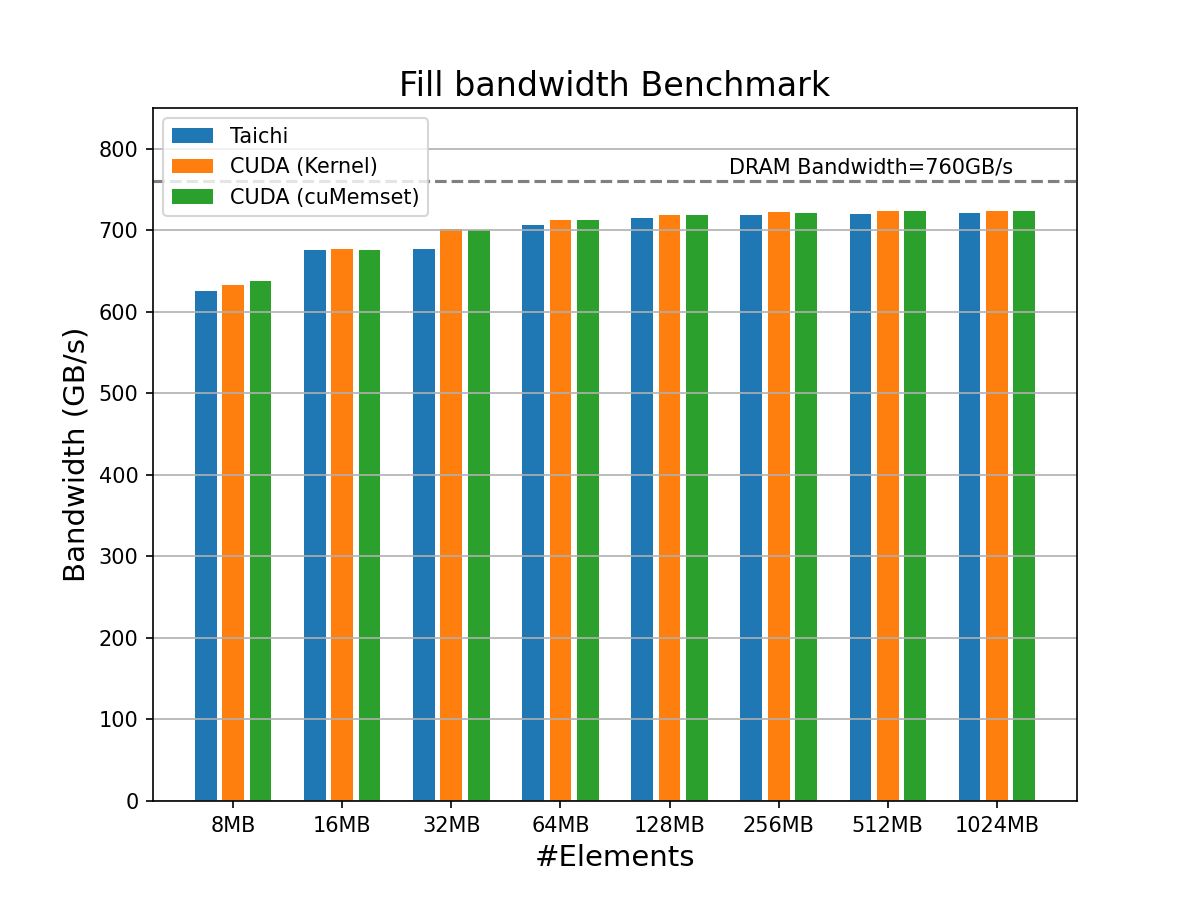
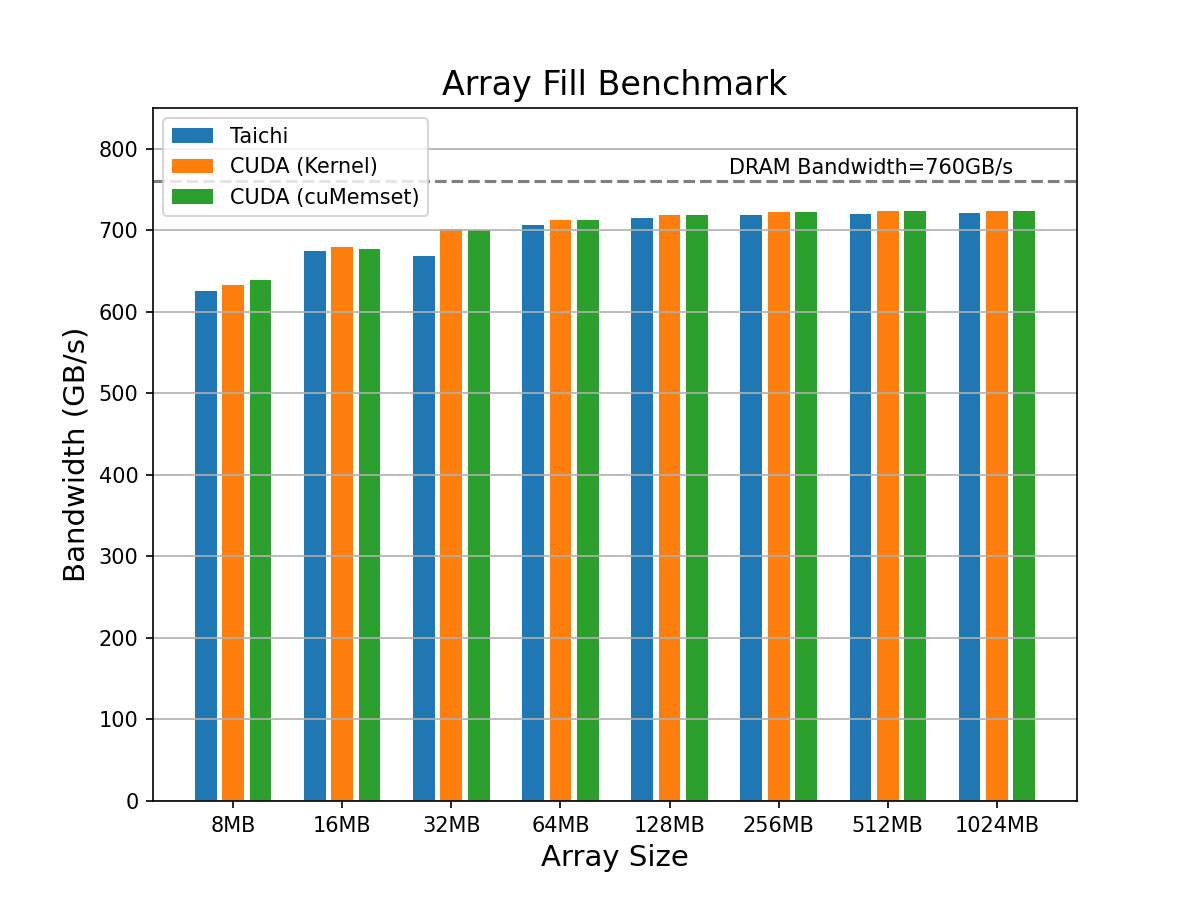
Update plot script for fill

Changed region(s): [[0.3392, 0.0622, 0.6783, 0.1244], [0.4317, 0.9333, 0.5858, 0.9644]]

diff --git a/fill/plot_benchmark.py b/fill/plot_benchmark.py
@@ -4,7 +4,7 @@ from src.cuda.benchmark import benchmark as benchmark_cuda
 import sys
 import os
 
-sample_res = {'cuda_kernel': [{'N': 2097152, 'time': 0.013, 'bandwidth': 632.938}, {'N': 4194304, 'time': 0.025, 'bandwidth': 678.134}, {'N': 8388608, 'time': 0.048, 'bandwidth': 701.28}, {'N': 16777216, 'time': 0.094, 'bandwidth': 712.921}, {'N': 33554432, 'time': 0.187, 'bandwidth': 718.698}, {'N': 67108864, 'time': 0.372, 'bandwidth': 721.962}, {'N': 134217728, 'time': 0.742, 'bandwidth': 723.445}, {'N': 268435456, 'time': 1.483, 'bandwidth': 724.197}], 'cuda_memset': [{'N': 2097152, 'time': 0.013, 'bandwidth': 639.448}, {'N': 4194304, 'time': 0.025, 'bandwidth': 676.533}, {'N': 8388608, 'time': 0.048, 'bandwidth': 700.231}, {'N': 16777216, 'time': 0.094, 'bandwidth': 712.038}, {'N': 33554432, 'time': 0.187, 'bandwidth': 718.778}, {'N': 67108864, 'time': 0.372, 'bandwidth': 721.81}, {'N': 134217728, 'time': 0.742, 'bandwidth': 723.387}, {'N': 268435456, 'time': 1.483, 'bandwidth': 724.223}], 'taichi_fill': [{'N': 2097152, 'time': 0.013391969660297036, 'bandwidth': 626.3909053549886}, {'N': 4194304, 'time': 0.024852906176820396, 'bandwidth': 675.0605293656818}, {'N': 8388608, 'time': 0.04924052860587835, 'bandwidth': 681.4393133057117}, {'N': 16777216, 'time': 0.09494293201714754, 'bandwidth': 706.8337007738453}, {'N': 33554432, 'time': 0.18779275473207235, 'bandwidth': 714.7119610204935}, {'N': 67108864, 'time': 0.3734815325587988, 'bandwidth': 718.7382309398097}, {'N': 134217728, 'time': 0.7453848794102669, 'bandwidth': 720.2599983310114}, {'N': 268435456, 'time': 1.4887062897905707, 'bandwidth': 721.2583377685954}]}
+sample_res = {'cuda_kernel': [{'N': 2097152, 'time': 0.013, 'bandwidth': 632.447}, {'N': 4194304, 'time': 0.025, 'bandwidth': 678.898}, {'N': 8388608, 'time': 0.048, 'bandwidth': 701.305}, {'N': 16777216, 'time': 0.094, 'bandwidth': 712.983}, {'N': 33554432, 'time': 0.187, 'bandwidth': 718.707}, {'N': 67108864, 'time': 0.372, 'bandwidth': 721.921}, {'N': 134217728, 'time': 0.742, 'bandwidth': 723.445}, {'N': 268435456, 'time': 1.483, 'bandwidth': 724.217}], 'cuda_memset': [{'N': 2097152, 'time': 0.013, 'bandwidth': 639.007}, {'N': 4194304, 'time': 0.025, 'bandwidth': 677.286}, {'N': 8388608, 'time': 0.048, 'bandwidth': 699.962}, {'N': 16777216, 'time': 0.094, 'bandwidth': 712.255}, {'N': 33554432, 'time': 0.187, 'bandwidth': 718.809}, {'N': 67108864, 'time': 0.372, 'bandwidth': 721.826}, {'N': 134217728, 'time': 0.742, 'bandwidth': 723.365}, {'N': 268435456, 'time': 1.483, 'bandwidth': 724.031}], 'taichi_fill': [{'N': 2097152, 'time': 0.013420191397890448, 'bandwidth': 625.0736484517371}, {'N': 4194304, 'time': 0.024879930317401888, 'bandwidth': 674.3272905497421}, {'N': 8388608, 'time': 0.05017550475895405, 'bandwidth': 668.7412944064515}, {'N': 16777216, 'time': 0.09498817566782236, 'bandwidth': 706.4970300585887}, {'N': 33554432, 'time': 0.18780816067010164, 'bandwidth': 714.653333066623}, {'N': 67108864, 'time': 0.3733440497890115, 'bandwidth': 719.0029040283389}, {'N': 134217728, 'time': 0.7452589934691787, 'bandwidth': 720.3816615494532}, {'N': 268435456, 'time': 1.4891986697912216, 'bandwidth': 721.0198651000228}]}
 
 def run_benchmarks():
     cuda_results = benchmark_cuda()
@@ -47,8 +47,8 @@ def create_bar_plot(results):
     label_font_size = 14
     ax.legend(['Taichi', 'CUDA (Kernel)', 'CUDA (cuMemset)'])
     ax.set_ylabel("Bandwidth (GB/s)", fontsize=label_font_size)
-    ax.set_xlabel("#Elements", fontsize=label_font_size)
-    ax.set_title("Fill bandwidth Benchmark", fontsize=title_font_size)
+    ax.set_xlabel("Array Size", fontsize=label_font_size)
+    ax.set_title("Array Fill Benchmark", fontsize=title_font_size)
     ax.set_ylim([0, 850])
     ax.axhline(y = 760, color='grey', linestyle = 'dashed')
     ax.text(ax.get_xlim()[1] * 0.6, 770, 'DRAM Bandwidth=760GB/s')
